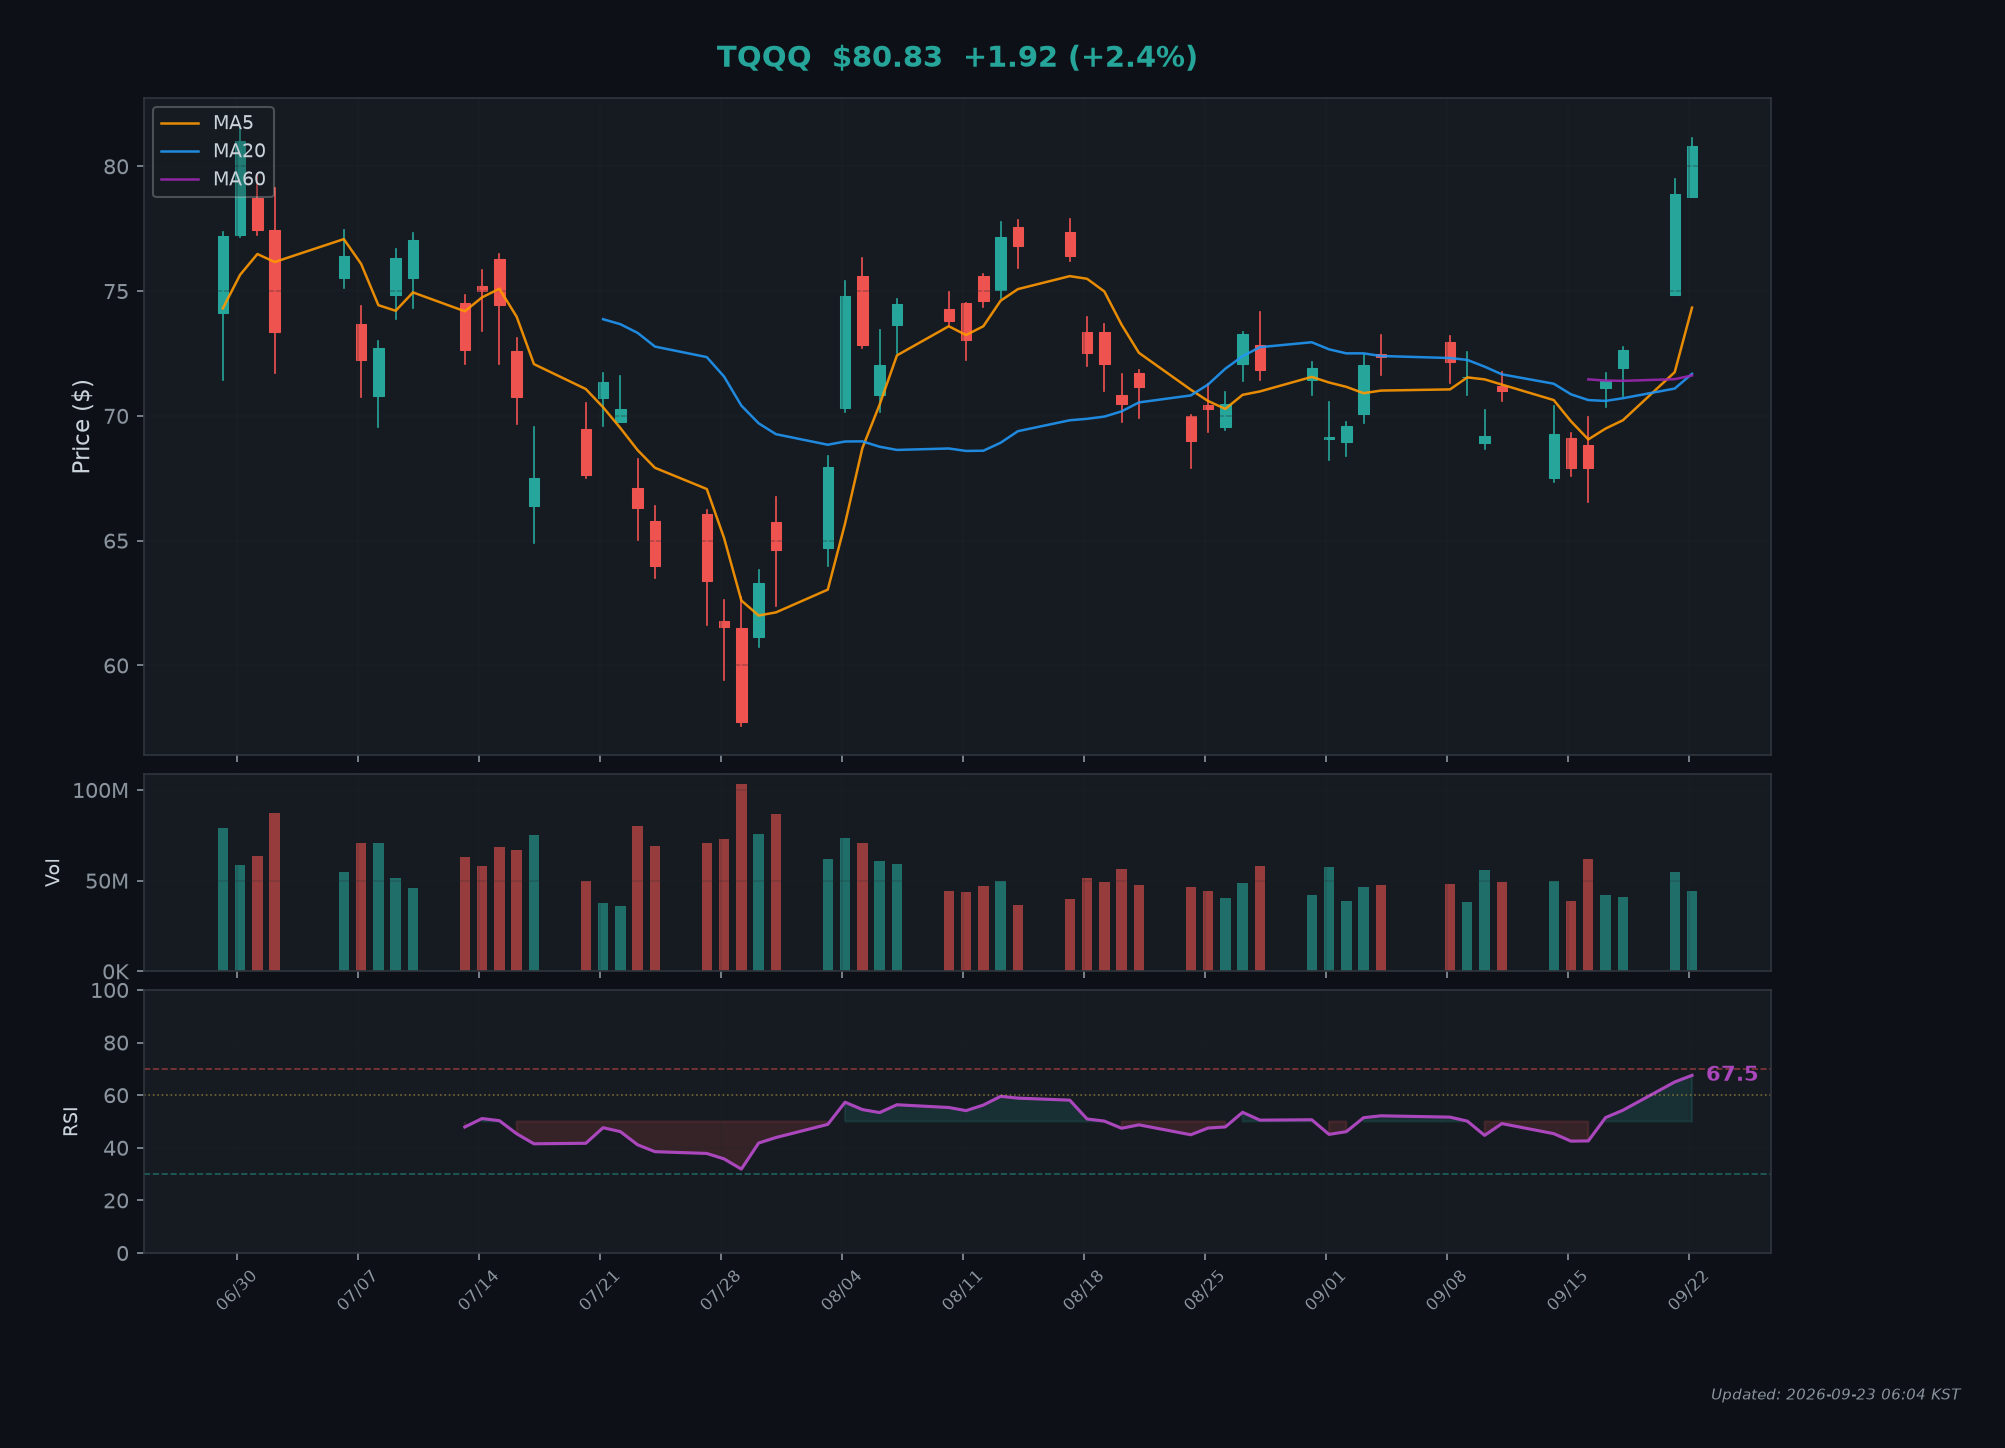
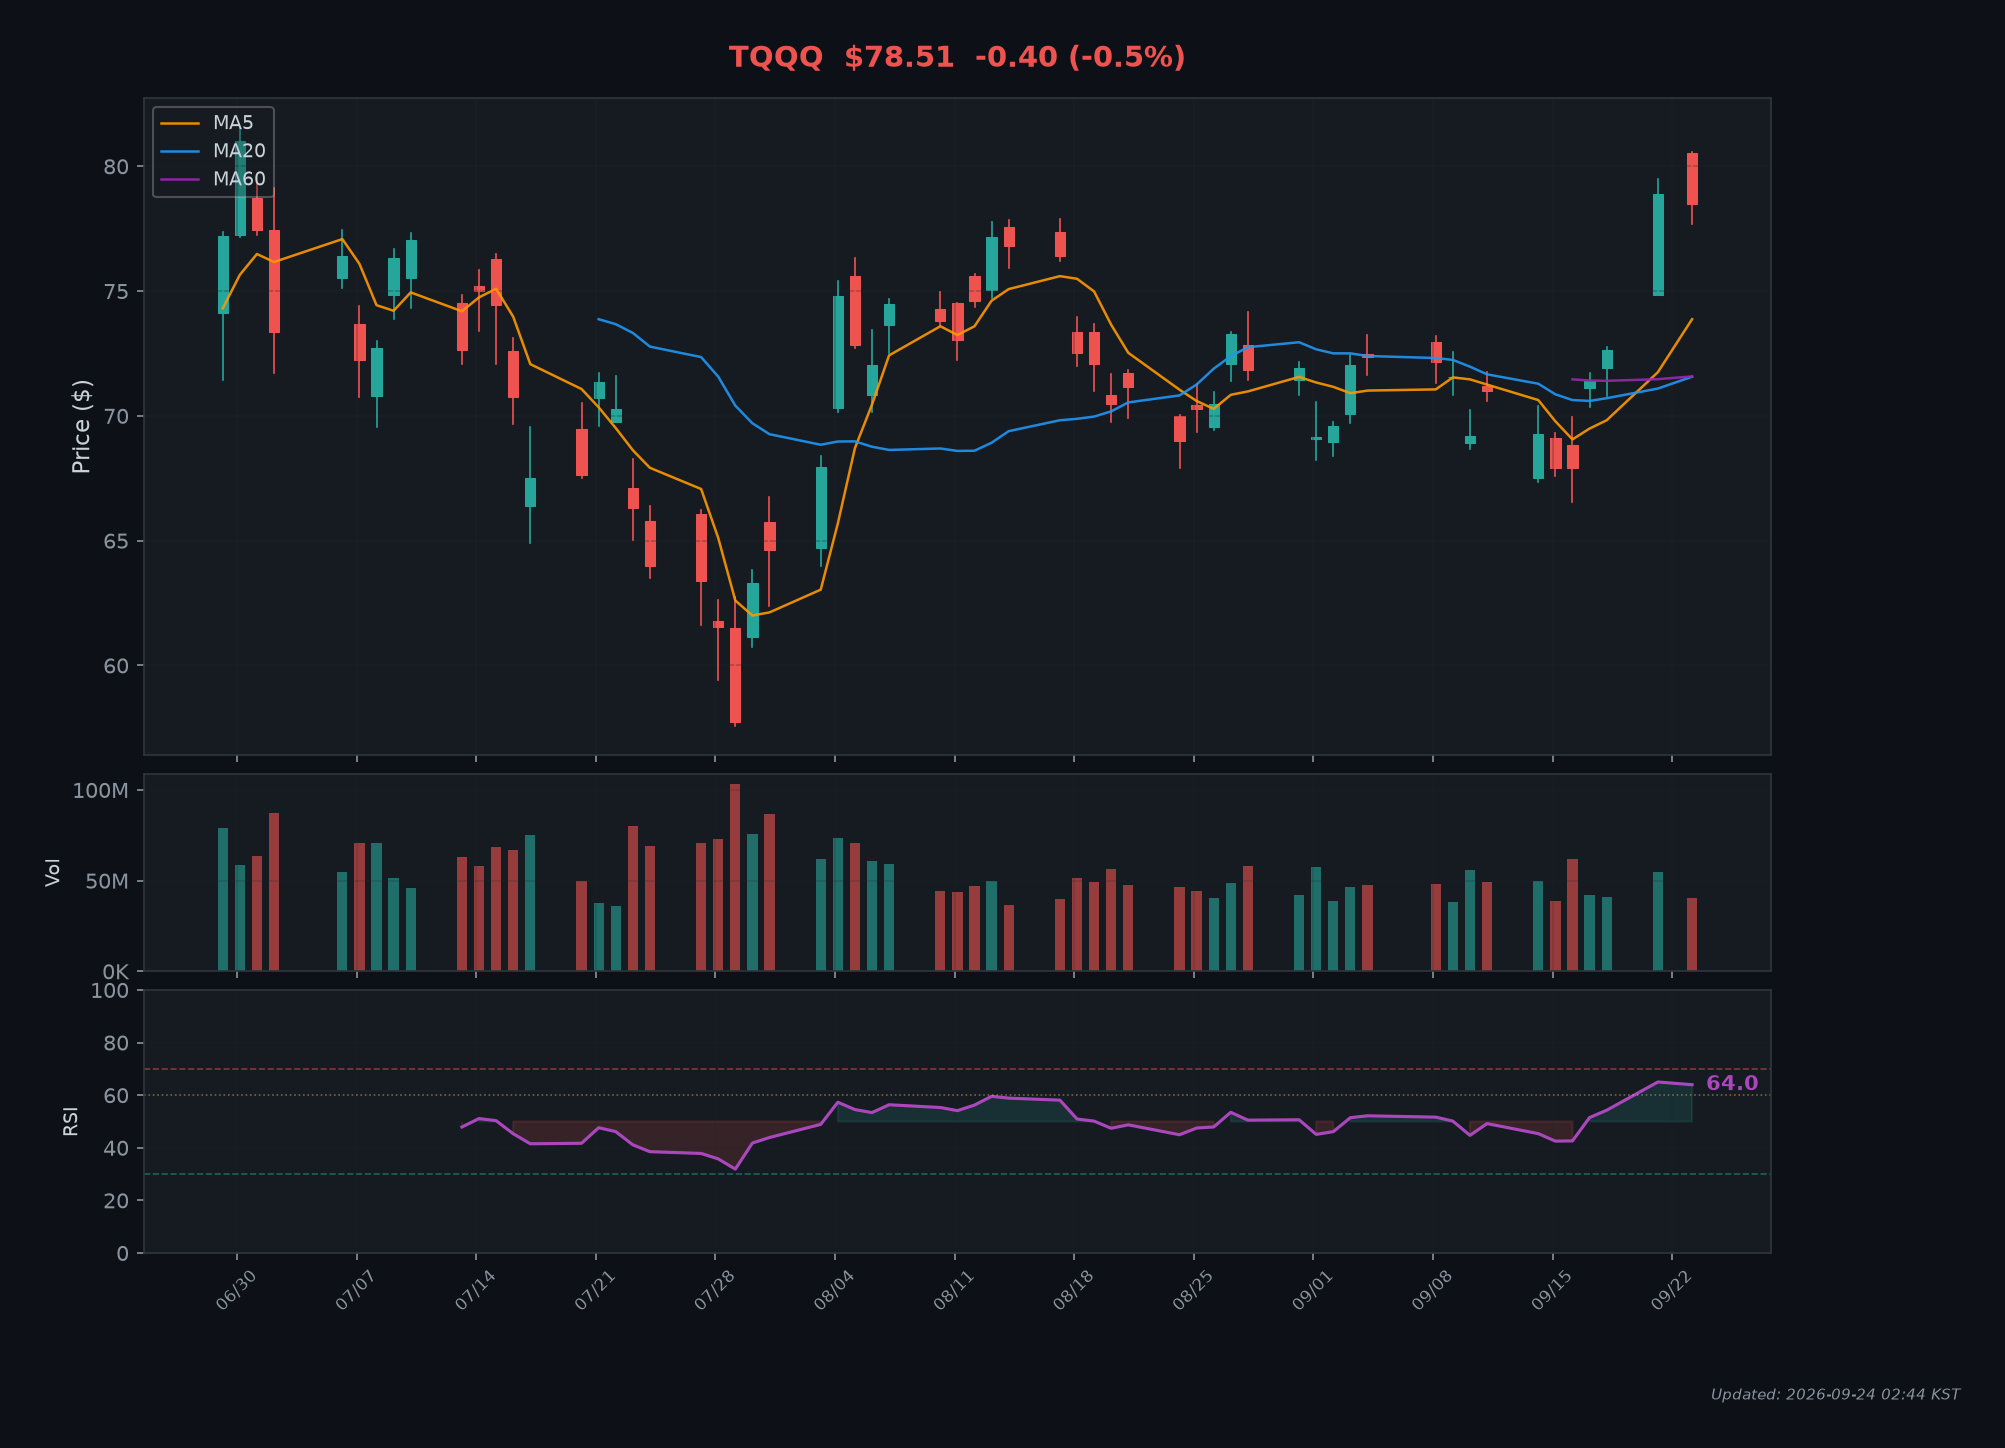
🎯 일일 추천 리포트 2026-09-23

diff --git a/README.md b/README.md
@@ -15,19 +15,19 @@
 | 항목 | 상태 |
 |------|------|
 | 미국 시장 | 🟢 개장중 |
-| 현재 시간 (ET) | 2026-09-22 13:32:49 ET |
-| 요일 | 화요일 |
-| 마지막 갱신 | 2026-09-23 02:32 KST |
+| 현재 시간 (ET) | 2026-09-23 13:44:50 ET |
+| 요일 | 수요일 |
+| 마지막 갱신 | 2026-09-24 02:44 KST |
 
 ---
 
 ## 🎯 오늘의 매수/매도 추천
 
-> 📅 **2026-09-23** 기준 추천 내역
+> 📅 **2026-09-24** 기준 추천 내역
 
 ### 💹 TQQQ
 
-**현재가:** $80.14 📈 +1.6% | **RSI:** 66.24 | **거래량:** 32,068,985
+**현재가:** $78.51 📉 -0.5% | **RSI:** 63.99 | **거래량:** 40,672,064
 
 #### 📊 시뮬레이션 상태
 
@@ -44,13 +44,13 @@
 
 #### 💡 추천 요약
 
-> 🟡 RSI=66.2 과열 → 진입 대기. RSI 60 미만 시 시작.
+> 🟡 RSI=64.0 과열 → 진입 대기. RSI 60 미만 시 시작.
 
 #### 🛒 매수 주문
 
 | 방식 | 주문가 | 금액 | 예상 수량 | 비고 |
 |------|--------|------|-----------|------|
-| ⏸ 대기 | - | - | - | RSI(66.2) ≥ 60 → 고점 진입 위험. 대기 권장. |
+| ⏸ 대기 | - | - | - | RSI(64.0) ≥ 60 → 고점 진입 위험. 대기 권장. |
 
 #### 📉 차트
 
@@ -60,7 +60,7 @@
 
 ### 💹 SOXL
 
-**현재가:** $148.12 📈 +4.4% | **RSI:** 60.56 | **거래량:** 47,504,451
+**현재가:** $144.63 📉 nan% | **RSI:** 59.1 | **거래량:** 44,343,241
 
 #### 📊 시뮬레이션 상태
 
@@ -77,13 +77,13 @@
 
 #### 💡 추천 요약
 
-> 🟡 RSI=60.6 과열 → 진입 대기. RSI 60 미만 시 시작.
+> 🟢 1회차 진입 신호! RSI=59.1 | 시장가 매수 추천 ($100)
 
 #### 🛒 매수 주문
 
 | 방식 | 주문가 | 금액 | 예상 수량 | 비고 |
 |------|--------|------|-----------|------|
-| ⏸ 대기 | - | - | - | RSI(60.6) ≥ 60 → 고점 진입 위험. 대기 권장. |
+| 🟢 시장가 (1회차 첫 매수) | $144.63 | $100.0 | 0.6914주 | 장중 아무 시점에 1회차 분량 시장가 매수 |
 
 #### 📉 차트
 
@@ -115,6 +115,6 @@
 
 ---
 
-🤖 *자동 생성됨 | 2026-09-23 02:32 KST | GitHub Actions*
+🤖 *자동 생성됨 | 2026-09-24 02:44 KST | GitHub Actions*
 
 ⚠ **면책 조항**: 본 시스템은 교육/참고 목적이며, 실제 투자 손익에 대한 책임은 사용자에게 있습니다.
